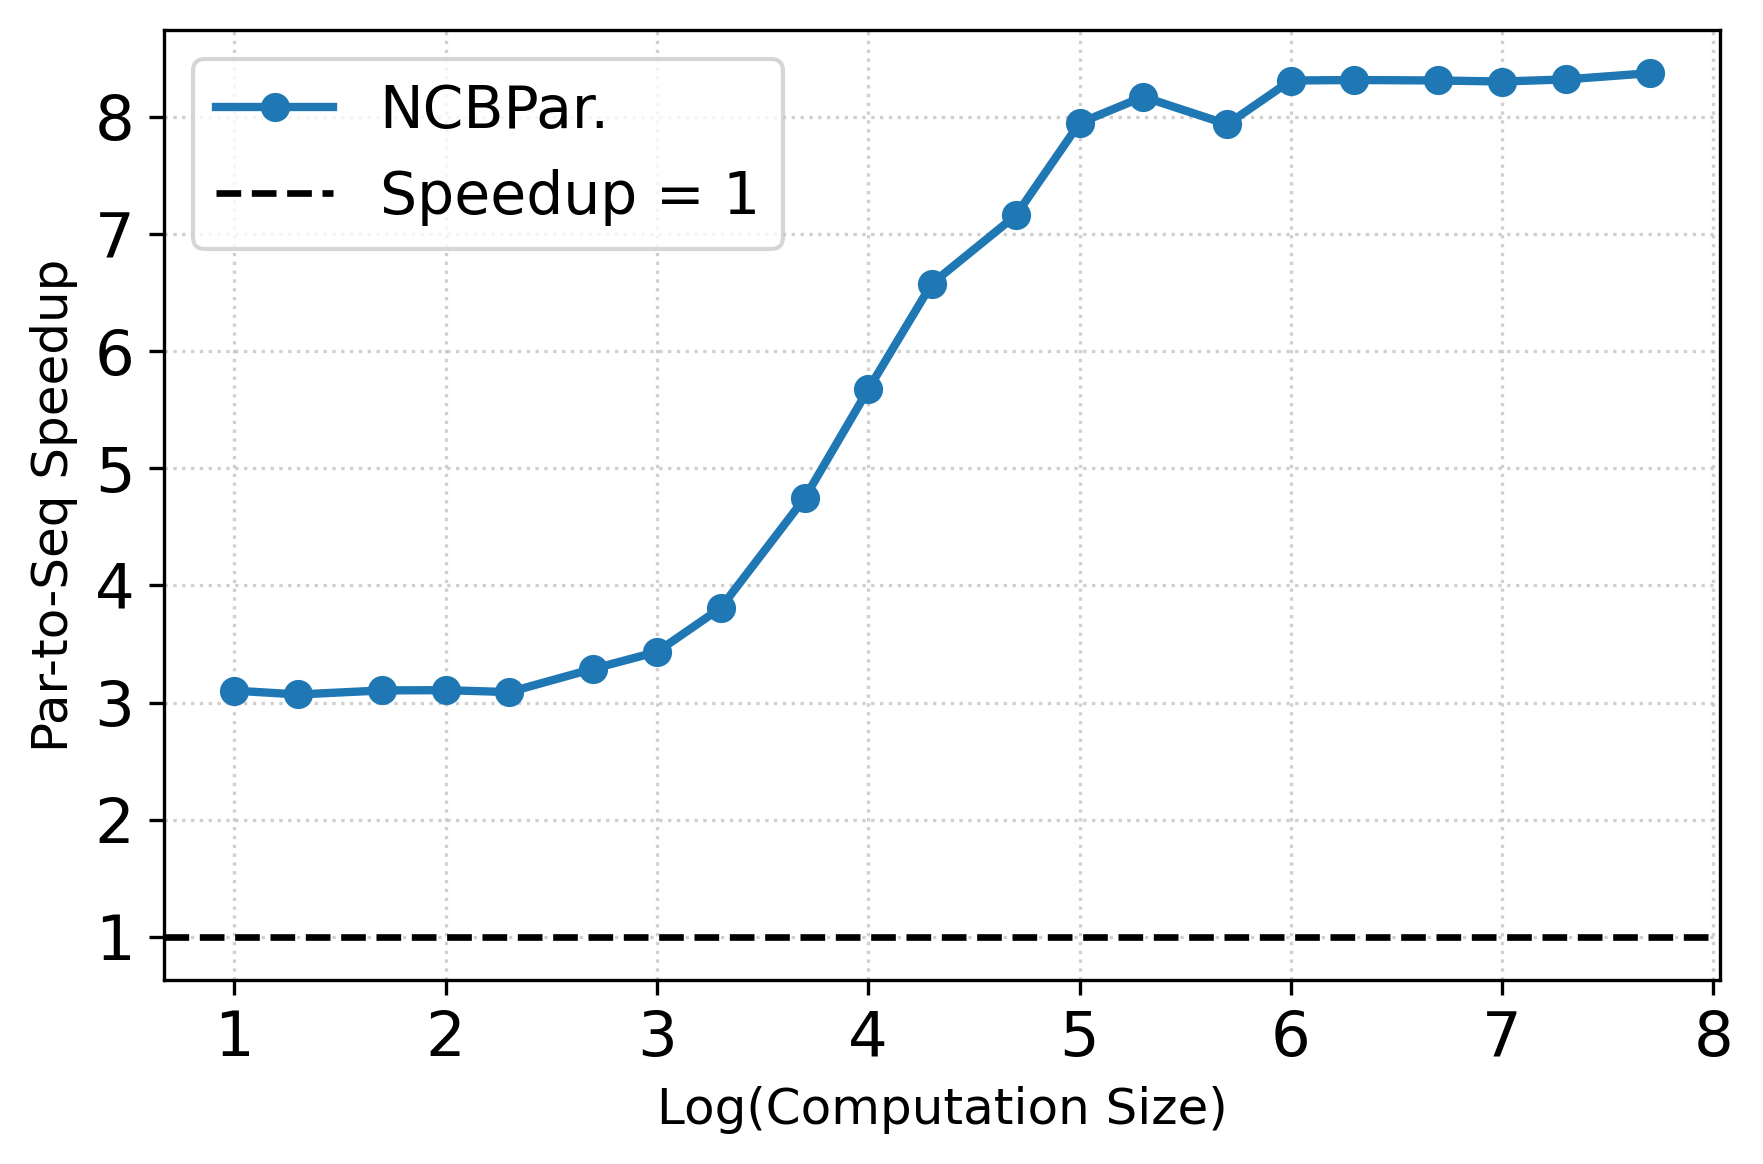
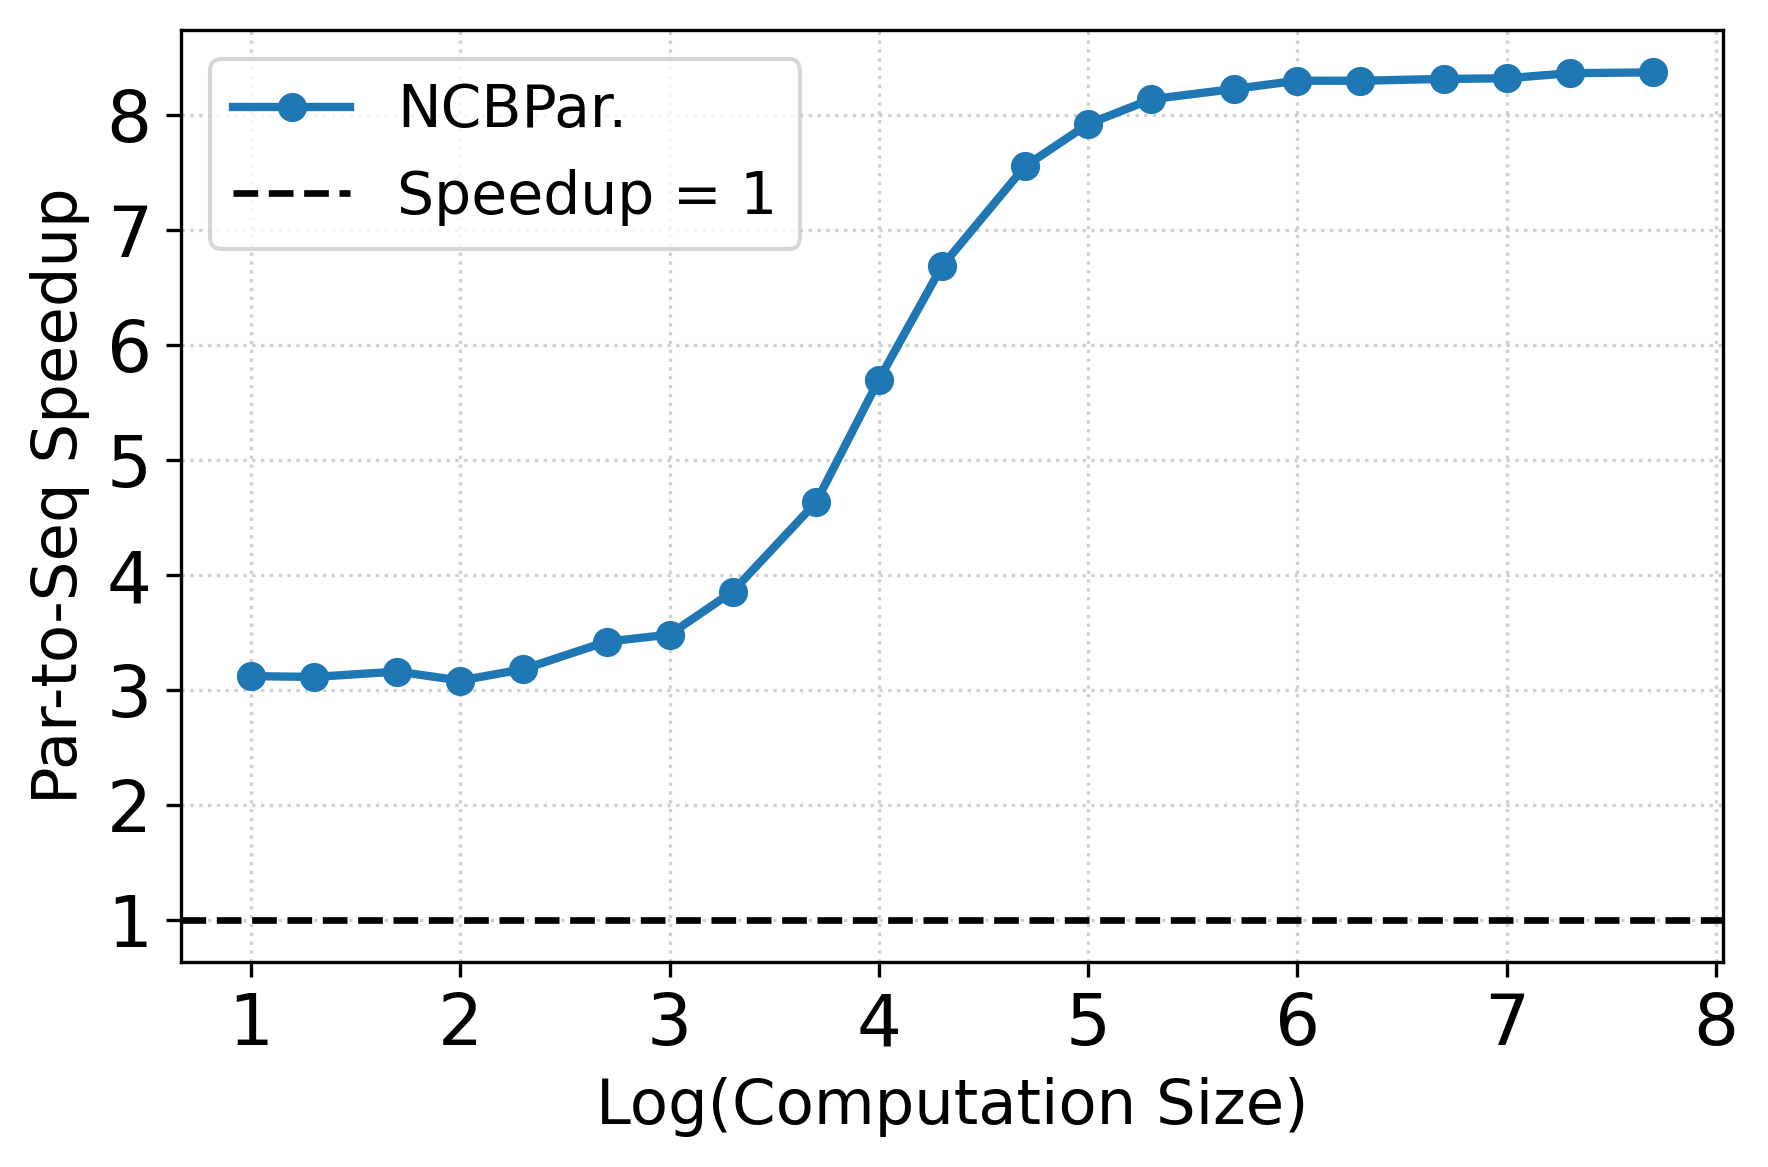
increase plot size

diff --git a/reports/speedup_plot.py b/reports/speedup_plot.py
@@ -24,12 +24,12 @@ def create_plot(data, benchmark, output_dir):
     plt.axhline(y=1, color='black', linestyle='--', 
                 label='Speedup = 1', linewidth=1.6)
 
-    plt.xticks(fontsize=15)
-    plt.yticks(fontsize=15)
+    plt.xticks(fontsize=17)
+    plt.yticks(fontsize=17)
 
 
-    plt.xlabel('Log(Computation Size)', fontsize=12)
-    plt.ylabel('Par-to-Seq Speedup', fontsize=12)
+    plt.xlabel('Log(Computation Size)', fontsize=15)
+    plt.ylabel('Par-to-Seq Speedup', fontsize=15)
     
     plt.legend(loc='best', fontsize=14)
     plt.grid(True, linestyle=':', alpha=0.6)
